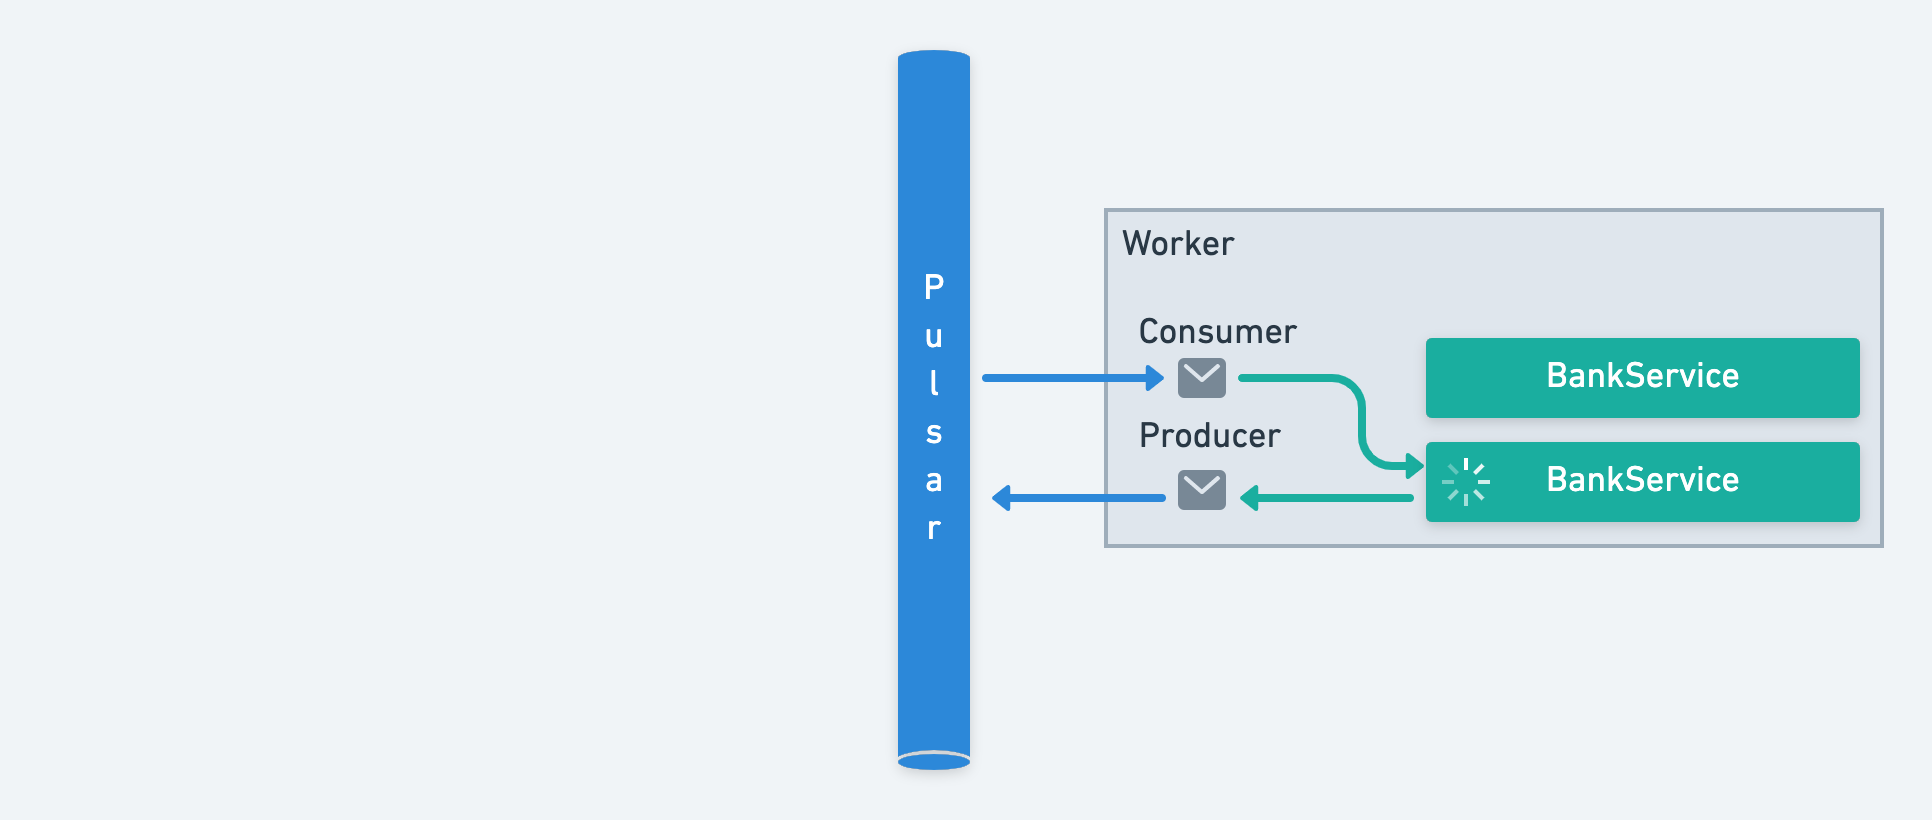
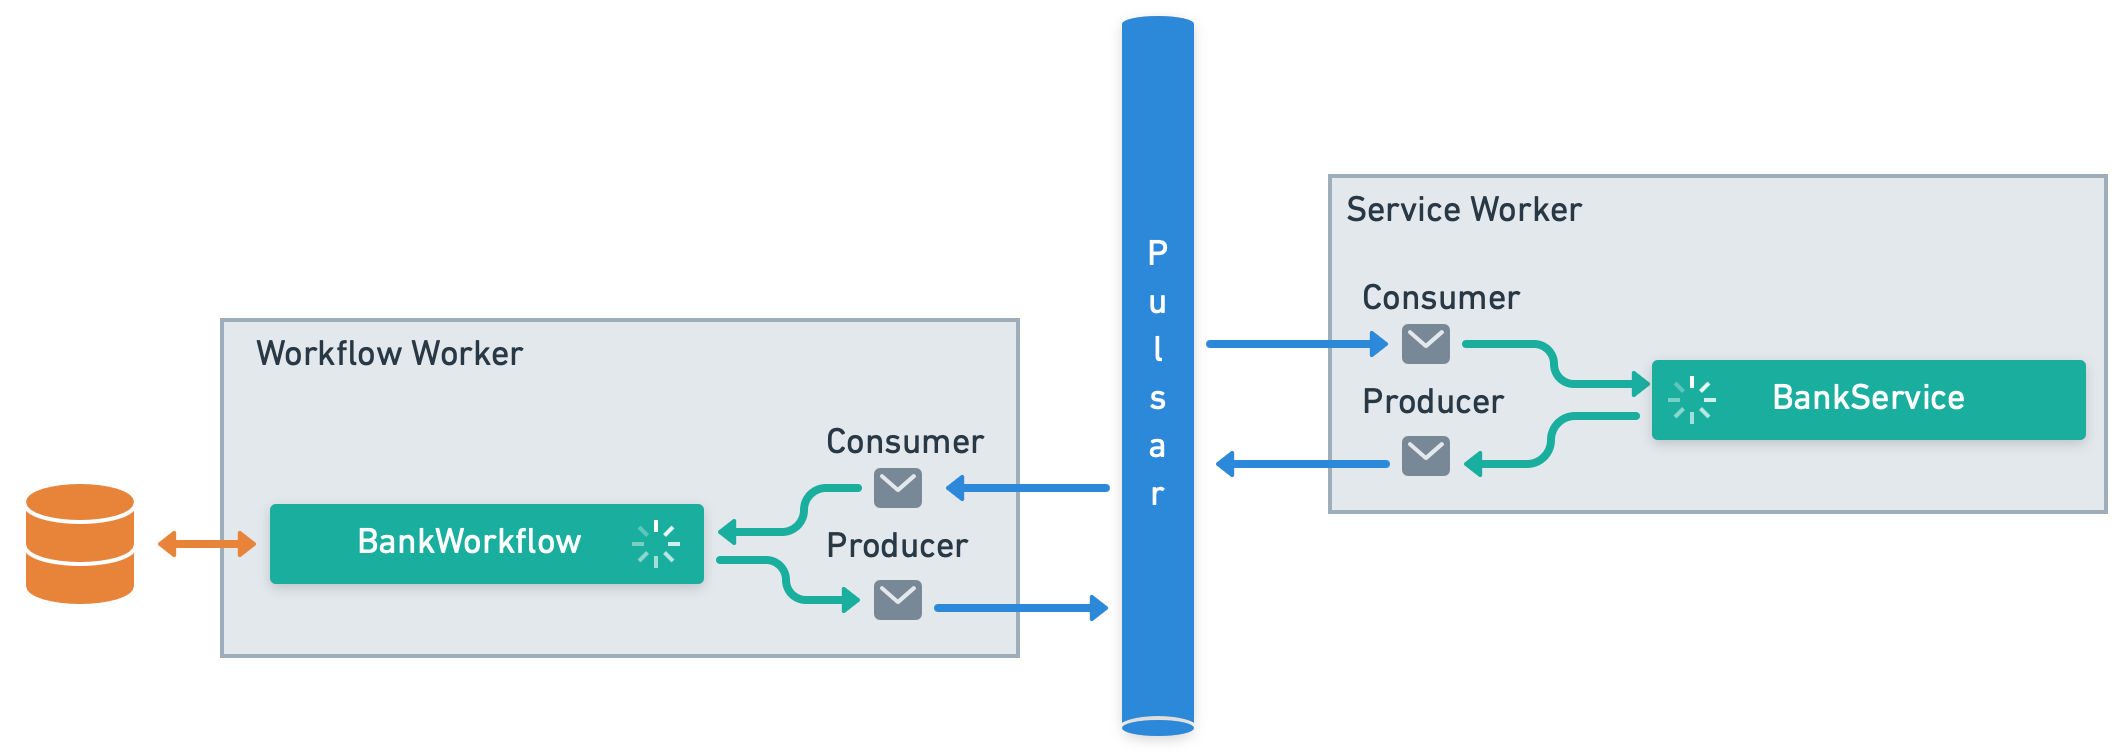
improve terminology

Changed region(s): [[0.0, 0.0, 0.9938, 0.9787], [0.0932, 0.4588, 0.2484, 0.4894]]

diff --git a/src/pages/docs/introduction/terminology.md b/src/pages/docs/introduction/terminology.md
@@ -1,63 +1,56 @@
 ---
 title: Terminology
-description: This page is your starting point to learn about Services, Tasks, Workflows, and Clients in Infinitic's distributed task management framework. Dive into the foundational elements of Infinitic and streamline your distributed systems knowledge.
+description: This page is your starting point to learn about Services, Tasks, Workflows, and Clients in Infinitic's orchestration framework. Dive into the foundational elements of Infinitic and streamline your knowledge of distributed systems.
 ---
 Welcome to Infinitic! Understanding the key terms used in Infinitic is crucial for effectively utilizing its capabilities. This guide breaks down the essential terminology in simple terms, helping you get a clear picture of how Infinitic operates.
 
-## Services
+## Services and Tasks
 
-Services are the backbone of Infinitic. They are classes that implement various tasks or functions that you want to perform. Think of services like distinct units in your application, each responsible for a specific type of job. Examples include:
+In your distributed application, each **Service** is responsible for a specific domain of work. Examples include:
 
-- `EmailService` for handling email-related tasks.
+- `EmailService` for sending emails.
 - `NotificationService` for sending notifications.
 - `InvoiceService` for managing invoices.
 
-In the context of [workflows](#workflows), services are primarily defined by their interfaces and are invoked using event-based RPC (Remote Procedure Call). 
+In practice, a Service is implemented through a class that implements an interface, whose public methods define the contract for remote calls to this Service.
 
-These services are implemented in classes within [workers](#worker), which are connected and managed via the Apache Pulsar cluster. They can be scaled across multiple workers to handle parallel processing, ensuring efficiency and resilience.
+A **Task** is essentially a remote call to a public method of a Service. It can perform operations such as database operations, API calls, or any complex action specific to your domain.
 
-![Services](/img/concept-service@2x.png)
-
-## Tasks
-
-A **task** is essentially a method within a [service](#service) class. It can be anything from a database operation, an API call, to any complex action specific to your domain. Tasks are processed inside [workers](#worker) and are invoked remotely via Apache Pulsar.
+Tasks are invoked remotely by [Workflows](#workflows) and processed within [Workers](#worker), built using the provided Infinitic SDK that handles serialization and the management of events for you:
 
 ![Tasks](/img/concept-task@2x.png)
 
+## Workflows
+
+Workflows orchestrate the remote calls of various [Tasks](#services-and-tasks) to achieve your business goals.
+
+They are implemented [using code](/docs/workflows/syntax) (offering unparalleled flexibility and control) and executed within [Workers](#worker), built using the provided Infinitic SDK that handles serialization and the management of events for you.
+
+[Workflow Workers](#workers) are stateless and horizontally scalable. The state of workflows is continuously saved in a database.
+
+![Workflows](/img/concept-workflow@2x.png)
+
+
 ## Workers
 
-Workers are applications that run [services](#service). A worker embeds an Apache Pulsar's consumer listening the topics dedicated to each service it implements. When receiving the instruction to run a task, the worker deserializes the input, trigger the task processing, and return the result to Pulsar in a JSON serialized format. Workers are stateless, meaning they don't store any data permanently, and can be scaled to meet demand. Workers also catch any [task](#task) failure, and manage retries,  ensuring that your distributed tasks are executed seamlessly.
+Workers are Pulsar producers and consumers that run [Services](#services-and-tasks) or [Workflows](#workflows) according to their configuration.
+
+A worker listens to the topics dedicated to each service or workflow it implements. When receiving the instruction to run a task or incrementally move forward a workflow, the worker deserializes the input, triggers the processing, and returns the result to Pulsar in a JSON serialized format. 
+
+Workers are stateless, meaning they don't store any data permanently, and can be scaled to meet demand and ensure resilience.
+
+Workers also catch any failure and manage retries, ensuring that your distributed operations are executed seamlessly.
 
 ![Workers](/img/concept-worker@2x.png)
 
 {% callout type="note"  %}
 
-The complexity of communication between services and workflows is handled seamlessly for us. You don't have to worry about the underlying messages being sent back and forth.
-
-In Infinitic, we use an orchestration pattern. This is different from a choreography pattern where services need to be aware of the events produced by other services. With orchestration, services are completely independent or decoupled. They don't need to know about each other's events; Infinitic coordinates everything.
-
-{% /callout  %}
-
-## Workflows
-
-Workflows are special types of [services](#service) that orchestrate the execution of various tasks. Unlike traditional methods, Infinitic workflows are defined [using code](https://medium.com/swlh/code-is-the-best-dsl-for-building-workflows-548d6824f549), offering more flexibility and control.
-
-![Workflows](/img/concept-workflow@2x.png)
-
-Workflow workers are also stateless and scalable. They connect to databases like Redis or MySQL to manage the state of each workflow instance, ensuring smooth progress and stateful execution.
-
-{% callout type="note" %}
-
-Workflow services in Infinitic are managed differently compared to typical services. Each workflow consumer uses a method called a [key-shared subscription](https://pulsar.apache.org/docs/concepts-messaging/#key_shared), which is based on the workflow's ID. This approach is crucial for several reasons:
-
-- Infinitic guarantees that messages pertaining to a particular workflow instance are handled sequentially. This orderly processing is crucial to prevent race conditions that could occur if multiple messages for the same workflow were handled simultaneously. Avoiding these situations is key to ensuring a predictable and stable task flow.
-- Through the use of a key-shared subscription, a workflow service can receive all events linked to a specific workflow instance. This enables the service to keep a local cache of the workflow's state, reducing the need for frequent database queries.
-- Finally, there's no requirement for techniques like database locking to avert race conditions during the saving of workflow states in the database. This aspect significantly enhances Infinitic's scalability, ensuring that the database doesn't become a performance bottleneck.
+Infinitic uses an orchestration pattern. This is different from a choreography pattern where services need to be aware of the events produced by other services. With orchestration, services are completely independent or decoupled. Here, services don't need to know about each other's events. Workflows only need to know the Services' interfaces.
 
 {% /callout  %}
 
 ## Clients
 
-**Client's Role.** The client is primarily used to initiate new workflow instances. It needs to understand the workflow services' signatures and connect to the Apache Pulsar cluster to start and manage workflows.
+The client is primarily used to initiate new workflow instances. It needs to understand the workflow services' signatures and connect to the Apache Pulsar cluster to start and manage workflows.
 
 ![Clients](/img/concept-client@2x.png)
